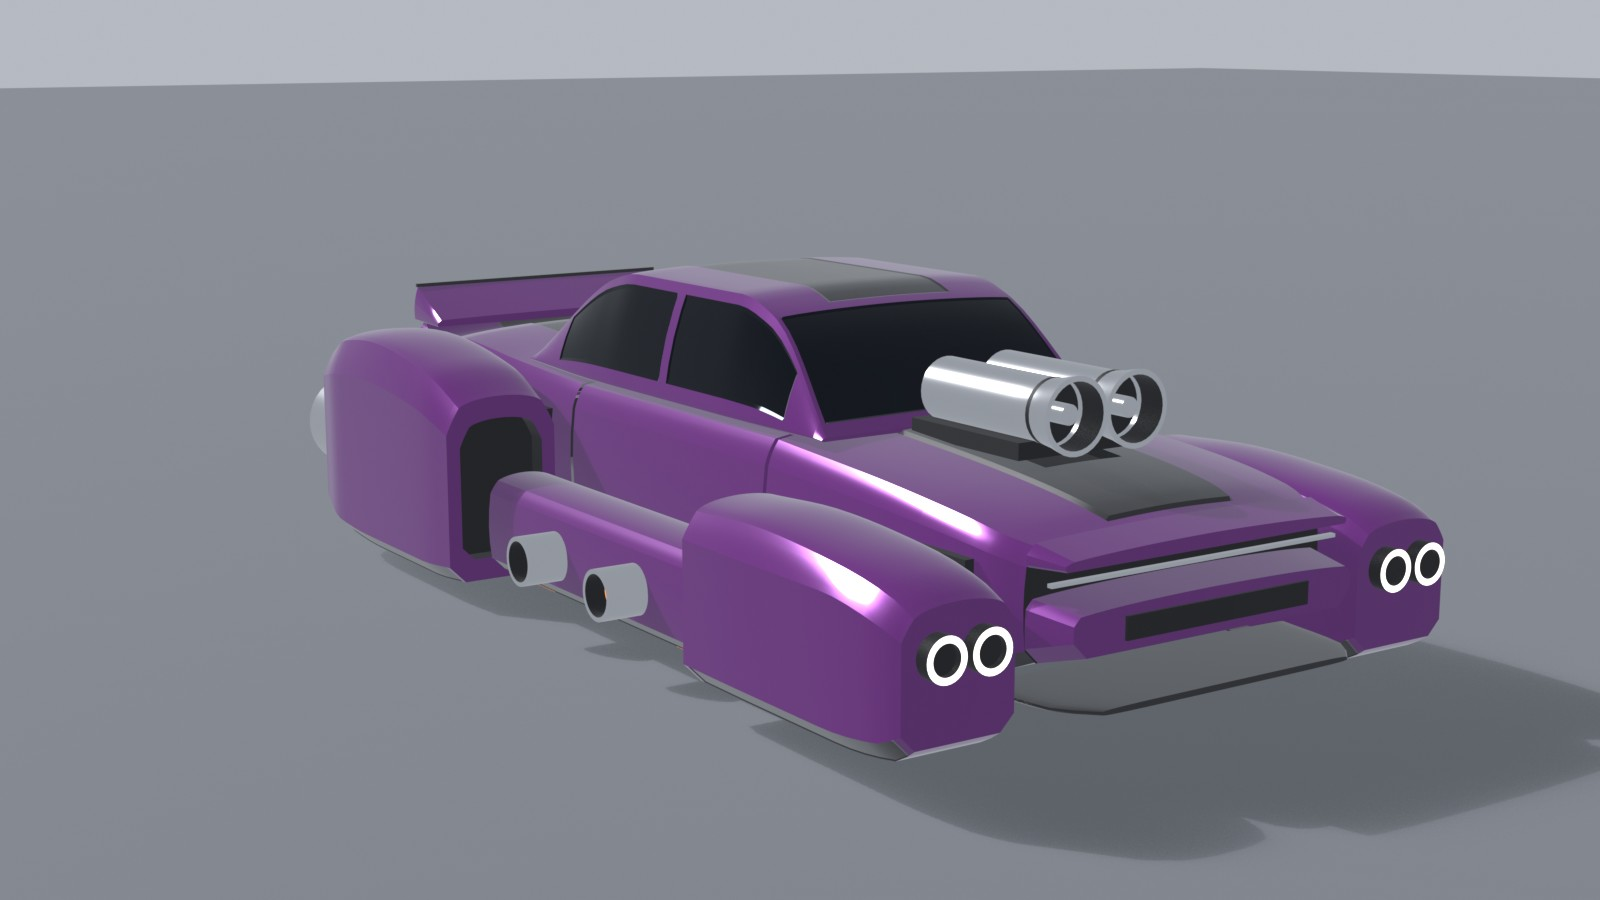
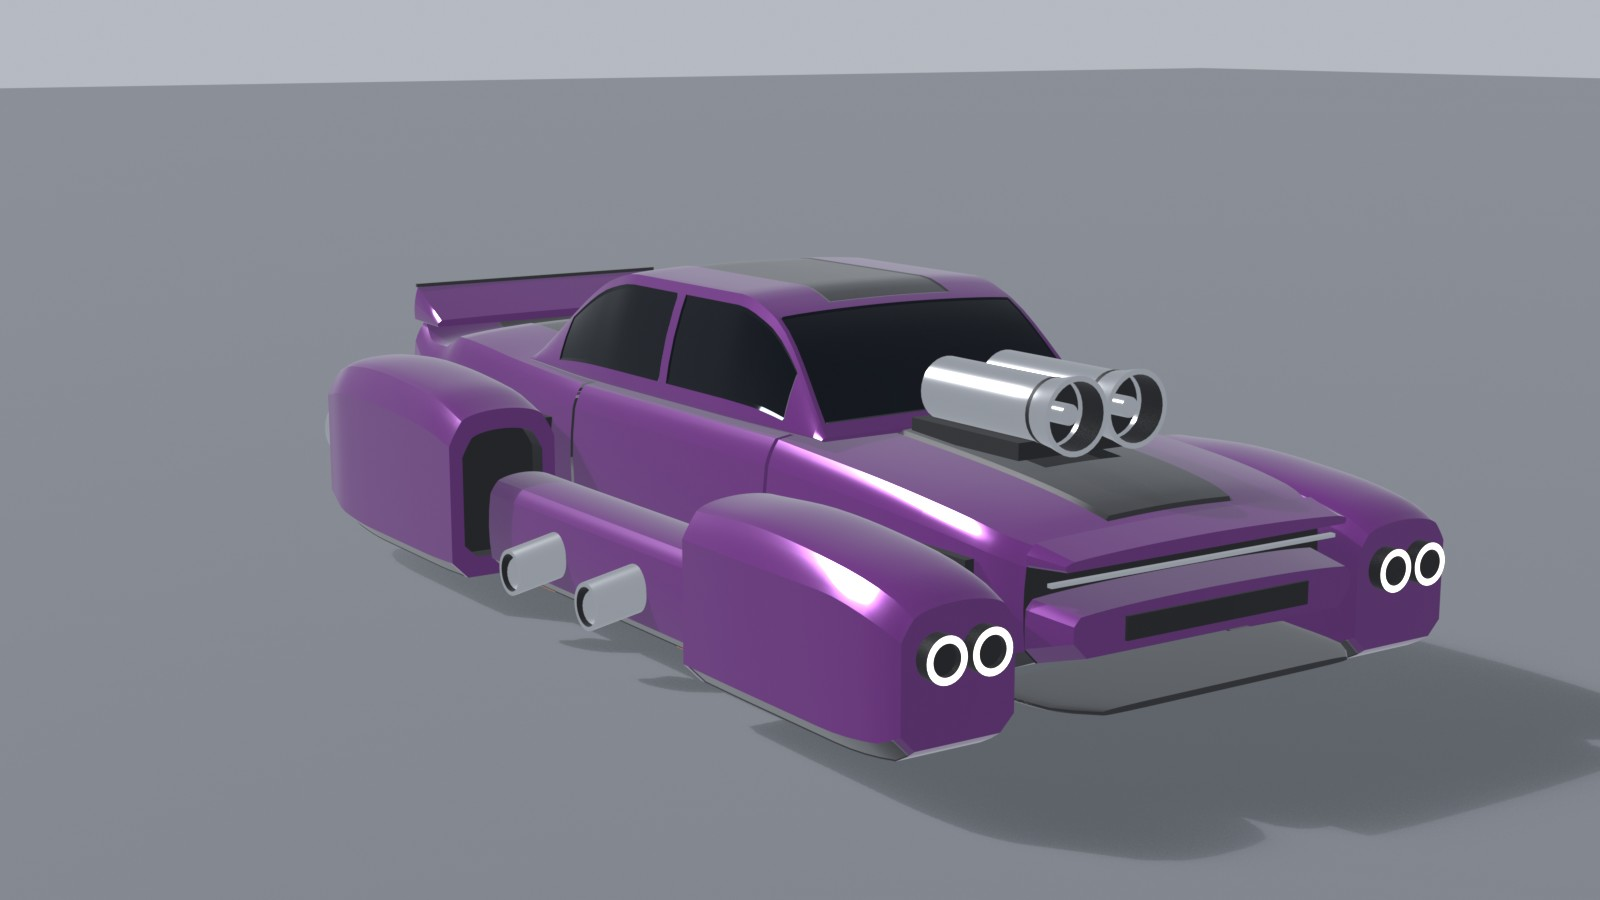
mesh: Brawler pass 6: smaller rear engine pods and barrels; drift thrusters swept back and down

diff --git a/scripts/exotic_category/categories/muscle/mesh/muscle_cars.py b/scripts/exotic_category/categories/muscle/mesh/muscle_cars.py
@@ -45,9 +45,11 @@ def barrel(name, z0, z1, x, y, r, depth=0.6, collar=True):
         tube(c, c + 0.22, x, y, r + 0.09).build(name + "c", "detail", mirror=x != 0)
 
 
-def bazooka(name, x0, x1, z, y, r):
-    """Sideways drift thruster: a fat tube with a glowing throat at its outer end."""
-    t = xtube(x0, x1, z, y, r)
+def bazooka(name, x0, x1, z, y, r, back=0.8, down=0.6):
+    """Drift thruster: a fat tube that leaves the sill sideways and sweeps back and down, glowing at its
+    outer end. back and down are how far the outer end sits behind and below the inner end."""
+    t = Loft([(x0, dict(cx=z, yb=y - r, yt=y + r)), (x1, dict(cx=z + back, yb=y - down - r, yt=y - down + r))],
+             axis="x", w=r, nt=2, nb=2, yw=0.5)
     t.build(name, "metal", mirror=True, caps=(True, False))
     t.throat(name + "n", "max", lip="metal", back="thrust", scale=0.82, depth=0.45, mirror=True)
 
@@ -160,27 +162,27 @@ def f_fpod():
 
 
 def f_rpod():
-    """Rear engine fender: a haunch that climbs toward the tail, a giant barrel behind."""
+    """Rear engine fender: a haunch no taller than the deck, with one round barrel behind."""
     K.begin("F", "RPOD")
-    pod = Hull([(POD_RZ, SIDE_R), (5.4, dict(w=1.4, yb=-1.5, yt=3.35, ys=2.4)),
-                (8.6, dict(w=1.4, yb=-1.5, yt=3.75, ys=2.7)), (10.2, dict(w=1.4, yb=-1.4, yt=3.6, ys=2.6)),
-                (11.3, dict(cx=5.4, w=1.3, yb=-1.0, yt=3.2, ys=2.4))], **SIDE_R)
+    pod = Hull([(POD_RZ, SIDE_R), (5.4, dict(w=1.32, yb=-1.35, yt=2.85, ys=2.0)),
+                (8.6, dict(w=1.32, yb=-1.35, yt=3.05, ys=2.15)), (10.2, dict(w=1.3, yb=-1.25, yt=2.95, ys=2.1)),
+                (11.3, dict(cx=5.4, w=1.2, yb=-0.9, yt=2.65, ys=1.9))], **SIDE_R)
     pod.build("skin", "primary", mirror=True, caps=(False, True), regions=f_pod_regions(POD_RZ, 11.3))
     pod.throat("intake", "min", lip="primary", wall="detail", back="detail", scale=0.76, depth=0.5, mirror=True)
-    barrel("barrel", 10.4, 12.6, 5.45, 1.0, 1.15, depth=0.8, collar=False)
-    flange(4.4, 10.6, -0.3, 2.3)
+    barrel("barrel", 10.4, 12.3, 5.42, 0.85, 0.9, depth=0.7, collar=False)
+    flange(4.4, 10.6, -0.3, 2.1)
     lift_glow(pod, [(5.8, 9.6)])
 
 
 def f_stab():
-    """Sill unit with two fat bazookas firing sideways."""
+    """Sill unit with two fat bazookas that fire sideways, swept back and down."""
     K.begin("F", "STAB")
     sill = Hull([(POD_FZ + 0.1, {}), (POD_RZ - 0.1, {})], cx=4.95, w=0.85, yb=-1.2, yt=1.0, ys=0.6, rb=0.3, tum=0.2,
                 drop=0.12, wcf=0.6, d2=0.0, crown=0.04)
     sill.build("skin", "primary", mirror=True, regions=[
         R(POD_FZ + 0.1, POD_RZ - 0.1, 1.0, 2.0, "secondary", 0.02)])
-    for i, z in enumerate((-2.7, 0.7)):
-        bazooka(f"bazooka{i}", 5.3, 6.75, z, -0.2, 0.54)
+    for i, z in enumerate((-3.0, 0.4)):
+        bazooka(f"bazooka{i}", 5.3, 6.7, z, 0.05, 0.5)
     lift_glow(sill, [(-5.0, -3.6), (1.6, 3.0)])
 
 

diff --git a/scripts/exotic_category/categories/muscle/mesh/musclekit.py b/scripts/exotic_category/categories/muscle/mesh/musclekit.py
@@ -72,7 +72,7 @@ SEAM_R = dict(SEAM_F)
 # always meets the same two faces.
 SIDE_F = dict(cx=5.4, w=1.3, yb=-1.2, yt=2.3, rb=0.38, ys=1.6, tum=0.32, drop=0.2, wcf=0.78, d2=0.02, crown=0.025,
               cs=0.0)
-SIDE_R = dict(SIDE_F, cx=5.45, w=1.35, yb=-1.4, yt=2.8, ys=2.0)
+SIDE_R = dict(SIDE_F, cx=5.42, w=1.32, yb=-1.3, yt=2.5, ys=1.75)
 POD_FZ, POD_RZ = -6.0, 4.0    # where those faces sit
 
 # Boxes are (|x| min, |x| max, y min, y max, z min, z max).
